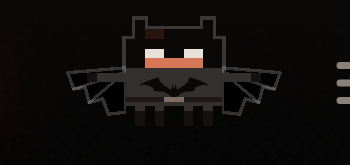
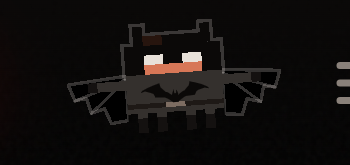
docs(readme): a Themes table, VENGEANCE beside PALE MOONLIGHT
The README shows both Themes side by side (the needs-you list, the night
report and Bat-Clawd alarmed), credits the 1989 symbol, and its
Bat-Clawd close-ups and settings picture are re-rendered with outfit V
and the picker's two folders.

Changed region(s): [[0.1714, 0.0909, 0.8, 0.7576], [0.7143, 0.3939, 0.8, 0.4545], [0.6286, 0.4848, 0.6857, 0.5152]]

diff --git a/README.md b/README.md
@@ -18,7 +18,15 @@ Bat-Signal rests in a corner of your screen as a small signal disc. When somethi
 - shrinks to a **watch strip**, one line per session, to follow the work from the corner;
 - has a mascot: **Bat-Clawd**, Claude Code's Clawd in a cowl and cape. He sleeps wrapped in his cape when all is quiet, takes off with it streaming behind him when a session is working, and throws it open when something needs you: black inside too, but for a thin red thread along its hem.
 
-The look is inspired by the reds and blacks of *The Batman* (2022): every session is a case file, every alert a red ink stamp, with rain falling behind it all.
+The look is inspired by the reds and blacks of *The Batman* (2022): every session is a case file, every alert a red ink stamp, with rain falling behind it all. That is the default Theme, VENGEANCE; Settings → Look dresses Bat-Signal as another version of Batman.
+
+## Themes
+
+| VENGEANCE, after *The Batman* (2022) | PALE MOONLIGHT, after Tim Burton's *Batman* (1989) |
+|---|---|
+| <img src="docs/screenshots/needs-you.png" width="240" alt="VENGEANCE: the needs-you list on pure black, each request stamped in red"> | <img src="docs/screenshots/moonlight-needs-you.png" width="240" alt="PALE MOONLIGHT: the same requests on a smoggy brown-black, stamped in gold as APPROVAL, TROUBLE, QUESTION and JUST IN on Your desk"> |
+| <img src="docs/screenshots/night-report.png" width="240" alt="VENGEANCE's night report, typed, with a red pen under each request"> | <img src="docs/screenshots/moonlight-night-report.png" width="240" alt="PALE MOONLIGHT's Late edition: Above the fold, gold stamps in the margin and a gold pen under each request"> |
+| <img src="docs/screenshots/clawd-alarmed.png" width="190" alt="VENGEANCE's Bat-Clawd raising a red flare, his cape open"> | <img src="docs/screenshots/moonlight-clawd-alarmed.png" width="190" alt="PALE MOONLIGHT's Bat-Clawd as the giant bat, his cape held up in two wings, the oval on his chest lit gold"> |
 
 ## A closer look
 
@@ -36,7 +44,7 @@ The look is inspired by the reds and blacks of *The Batman* (2022): every sessio
 
 | Settings | Comfort, notifications and sound | The Bat-Signal at rest |
 |---|---|---|
-| <img src="docs/screenshots/settings.png" width="240" alt="Settings: the Theme picker with VENGEANCE's folder, then animations, rain, Theme words, night report, always on top, opacity"> | <img src="docs/screenshots/settings-comfort.png" width="240" alt="Settings further down: the global shortcut, start with Windows, an All notifications switch over one Windows notification switch per kind of news, and sound with its volume and a Test button"> | <img src="docs/screenshots/signal.png" width="96" alt="The Bat-Signal disc, lit, with five cases needing you"> |
+| <img src="docs/screenshots/settings.png" width="240" alt="Settings: the Theme picker with the folders of VENGEANCE and PALE MOONLIGHT, then animations, rain, Theme words, night report, always on top, opacity"> | <img src="docs/screenshots/settings-comfort.png" width="240" alt="Settings further down: the global shortcut, start with Windows, an All notifications switch over one Windows notification switch per kind of news, and sound with its volume and a Test button"> | <img src="docs/screenshots/signal.png" width="96" alt="The Bat-Signal disc, lit, with five cases needing you"> |
 
 | The tray icon, at rest and lit |
 |---|
@@ -44,7 +52,7 @@ The look is inspired by the reds and blacks of *The Batman* (2022): every sessio
 
 | Bat-Clawd asleep | On patrol | Needs you |
 |---|---|---|
-| <img src="docs/screenshots/clawd-sleeping.png" width="190" alt="Bat-Clawd asleep, sitting wrapped in his cape"> | <img src="docs/screenshots/clawd-flying.png" width="190" alt="Bat-Clawd flying, his cape streaming behind him"> | <img src="docs/screenshots/clawd-alarmed.png" width="190" alt="Bat-Clawd alarmed, his black cape flung open, a thin red thread along its hem"> |
+| <img src="docs/screenshots/clawd-sleeping.png" width="190" alt="Bat-Clawd asleep in his suit, sitting wrapped in his cape"> | <img src="docs/screenshots/clawd-flying.png" width="190" alt="Bat-Clawd gliding in the wingsuit, arms out"> | <img src="docs/screenshots/clawd-alarmed.png" width="190" alt="Bat-Clawd alarmed, his cape flung open and a red flare raised"> |
 
 Screenshots use made-up data (`npm run shots`), never real sessions.
 
@@ -119,6 +127,6 @@ Running it from source, the checks, building the installer and releasing are in 
 
 ---
 
-Fan project. Not affiliated with Warner Bros., DC Comics or Anthropic. The bat symbol from *The Batman* (2022) is a trademark of DC Comics, used here as fan art.
+Fan project. Not affiliated with Warner Bros., DC Comics or Anthropic. The bat symbols from *The Batman* (2022) and from Tim Burton's *Batman* (1989) are trademarks of DC Comics, used here as fan art; see [NOTICE](NOTICE) for them and for the fonts' licences.
 
 License: [MIT](LICENSE), except the bat emblem: see [NOTICE](NOTICE).
